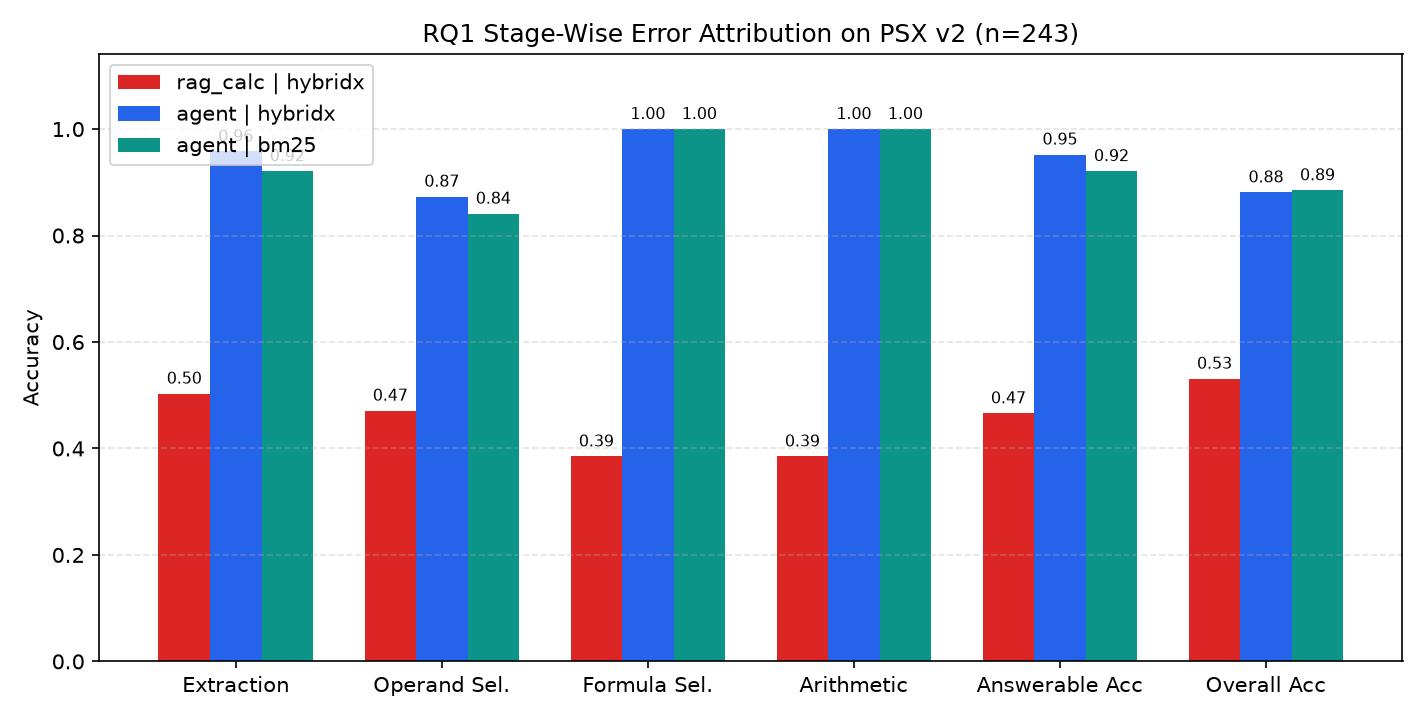
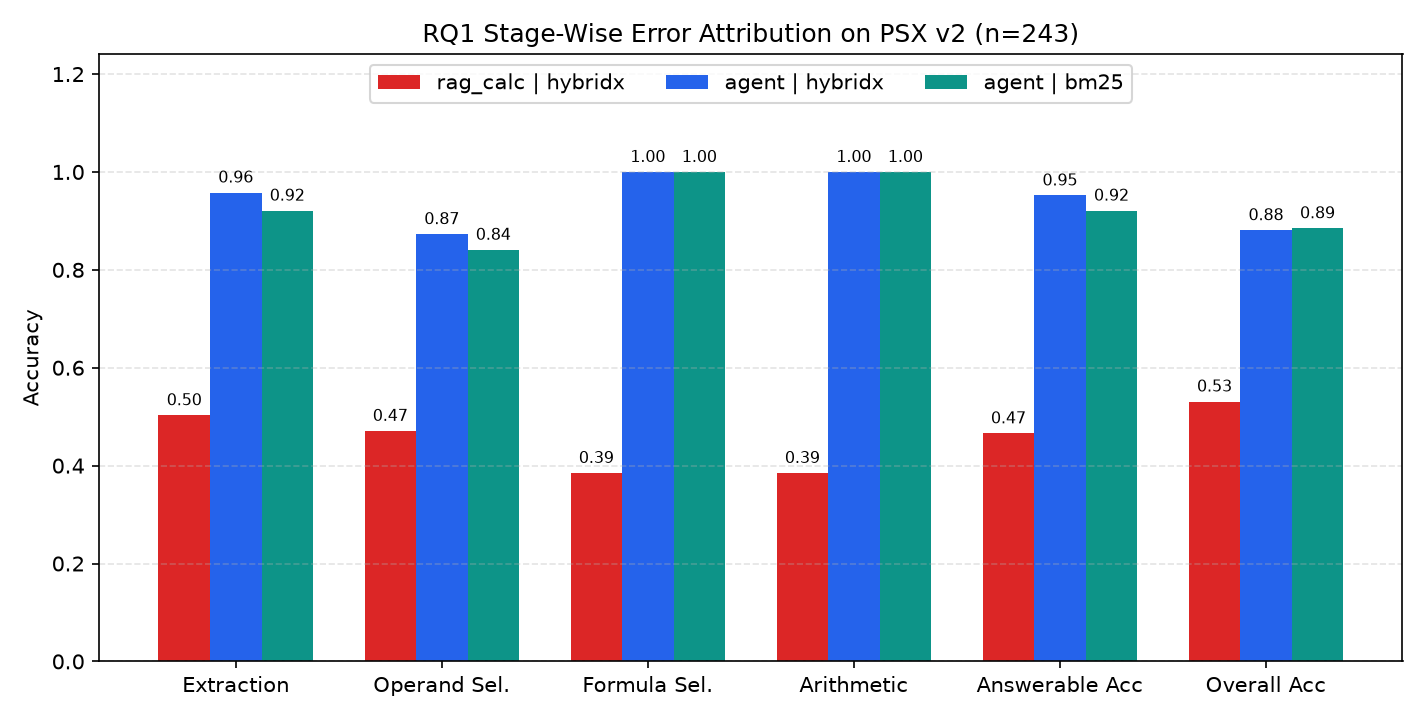
Final results cleanup: McNemar for retrieval ablation, figures, declaration fix

diff --git a/eval/make_figures.py b/eval/make_figures.py
@@ -95,12 +95,12 @@ def plot_rq1_stages(summary: dict) -> None:
         _label_bars(ax, rects, fmt="{:.2f}", fontsize=7.5)
 
     ax.set_ylabel("Accuracy")
-    ax.set_ylim(0, 1.14)
+    ax.set_ylim(0, 1.24)
     ax.set_xticks(x)
     ax.set_xticklabels([m[1] for m in metrics])
     ax.set_title("RQ1 Stage-Wise Error Attribution on PSX v2 (n=243)")
     ax.grid(axis="y", linestyle="--", alpha=0.35)
-    ax.legend(loc="upper left", frameon=True)
+    ax.legend(loc="upper center", ncol=3, frameon=True)
 
     plt.tight_layout()
     plt.savefig(FIGS / "rq1_stages.png", dpi=150)
@@ -129,7 +129,7 @@ def plot_rq3_abstention(summary: dict) -> None:
         _label_bars(ax, rects, fmt="{:.2f}", fontsize=7)
 
     ax.set_ylabel("Score")
-    ax.set_ylim(0, 1.14)
+    ax.set_ylim(0, 1.22)
     ax.set_xticks(x)
     ax.set_xticklabels(cond_labels)
     ax.set_title("RQ3 Evidence-Aware Abstention on PSX v2 (189 Answerable + 54 Unanswerable)")
